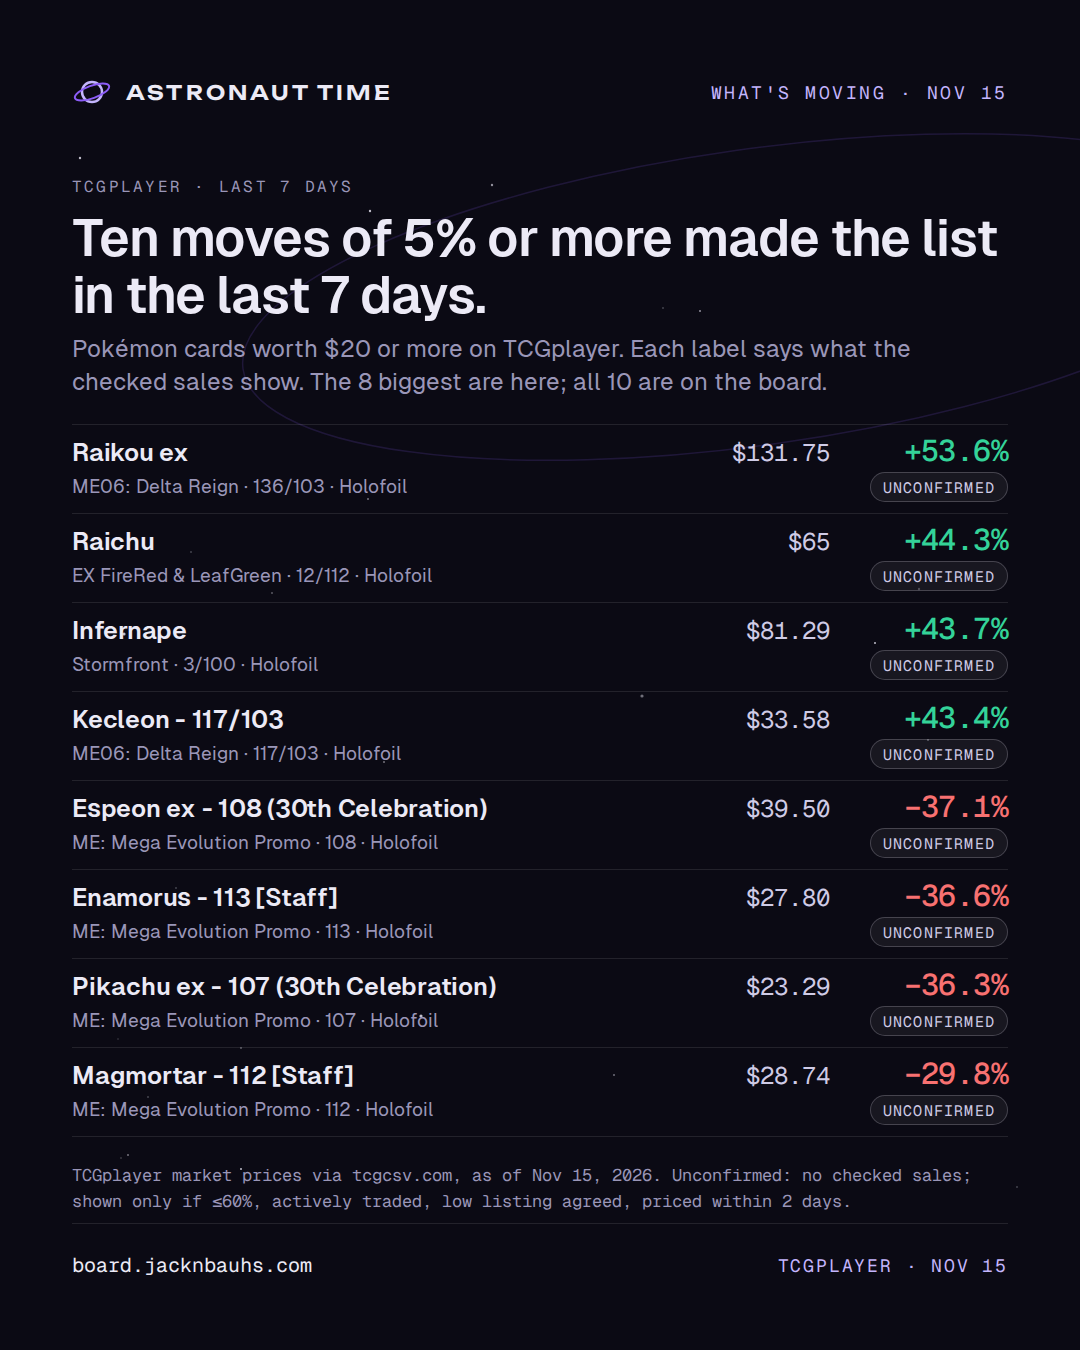
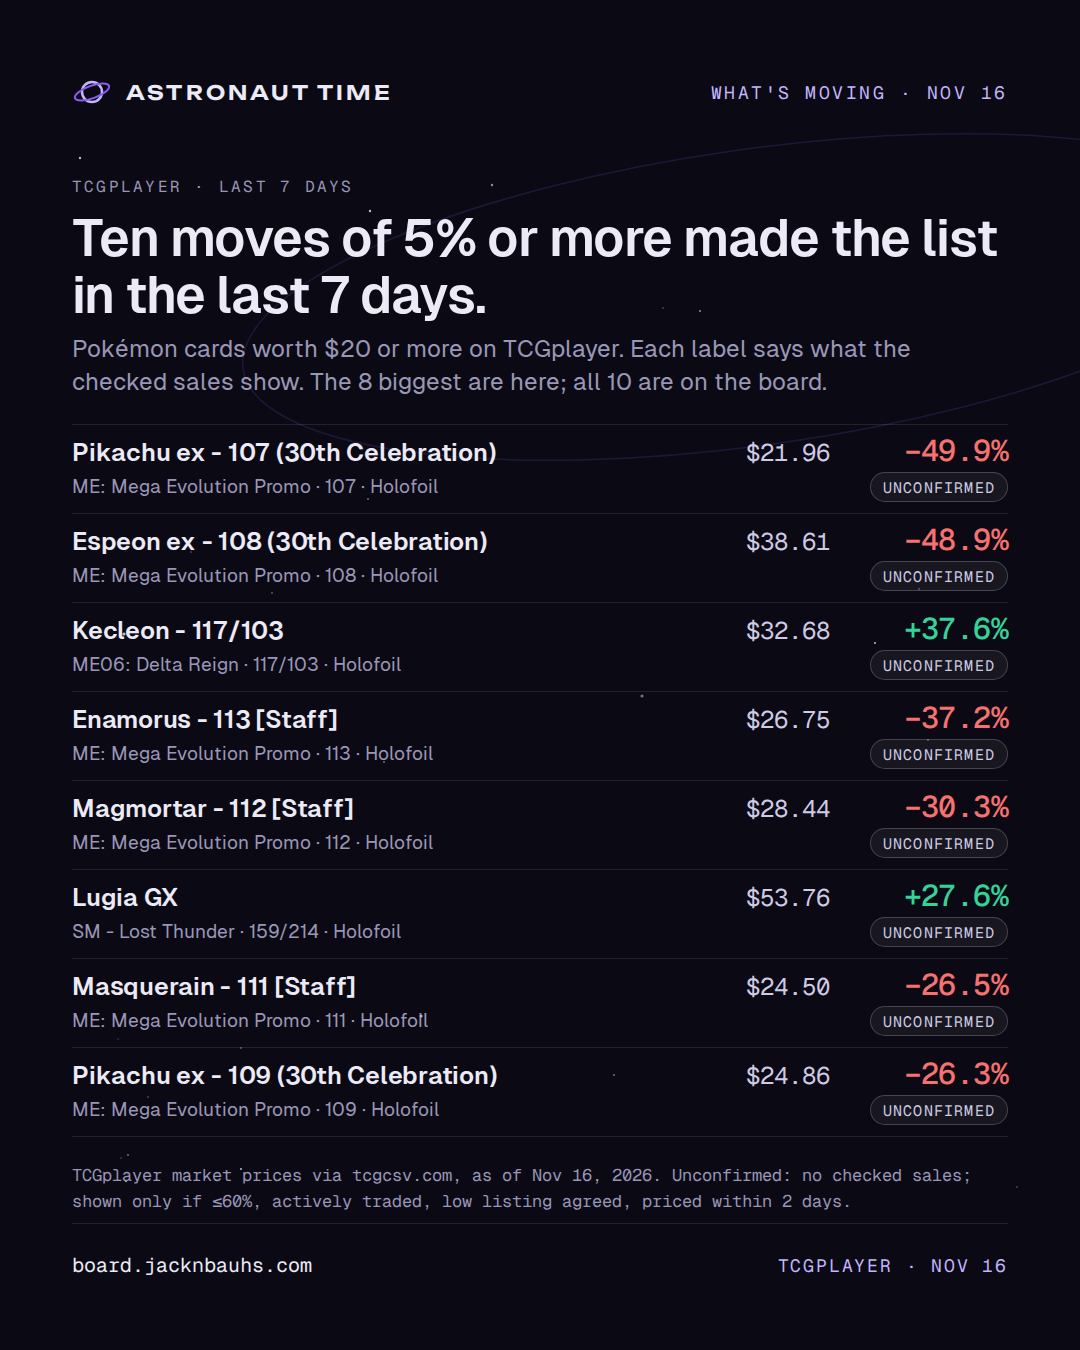
Share kit: render 2026-11-17

diff --git a/card.html b/card.html
@@ -10,14 +10,14 @@
 <meta property="og:url" content="https://board.jacknbauhs.com/card.html">
 <meta property="og:type" content="website">
 <meta property="og:site_name" content="Astronaut Time">
-<meta property="og:image" content="https://board.jacknbauhs.com/assets/og.png?v=2026-11-16">
+<meta property="og:image" content="https://board.jacknbauhs.com/assets/og.png?v=2026-11-17">
 <meta property="og:image:width" content="1200">
 <meta property="og:image:height" content="630">
 <meta property="og:image:alt" content="Mission Control by Astronaut Time: the card market, with the fake sales taken out.">
 <meta name="twitter:card" content="summary_large_image">
 <meta name="twitter:title" content="Card · Mission Control · Astronaut Time">
 <meta name="twitter:description" content="The card market, with the fake sales taken out.">
-<meta name="twitter:image" content="https://board.jacknbauhs.com/assets/og.png?v=2026-11-16">
+<meta name="twitter:image" content="https://board.jacknbauhs.com/assets/og.png?v=2026-11-17">
 <meta name="theme-color" content="#0B0A14">
 <link rel="icon" href="assets/favicon.svg" type="image/svg+xml">
 <link rel="preconnect" href="https://fonts.googleapis.com">

diff --git a/404.html b/404.html
@@ -10,14 +10,14 @@
 <meta property="og:url" content="https://board.jacknbauhs.com/">
 <meta property="og:type" content="website">
 <meta property="og:site_name" content="Astronaut Time">
-<meta property="og:image" content="https://board.jacknbauhs.com/assets/og.png?v=2026-11-16">
+<meta property="og:image" content="https://board.jacknbauhs.com/assets/og.png?v=2026-11-17">
 <meta property="og:image:width" content="1200">
 <meta property="og:image:height" content="630">
 <meta property="og:image:alt" content="Mission Control by Astronaut Time: the card market, with the fake sales taken out.">
 <meta name="twitter:card" content="summary_large_image">
 <meta name="twitter:title" content="Mission Control · Astronaut Time">
 <meta name="twitter:description" content="The card market, with the fake sales taken out.">
-<meta name="twitter:image" content="https://board.jacknbauhs.com/assets/og.png?v=2026-11-16">
+<meta name="twitter:image" content="https://board.jacknbauhs.com/assets/og.png?v=2026-11-17">
 <meta name="theme-color" content="#0B0A14">
 <link rel="icon" href="/assets/favicon.svg" type="image/svg+xml">
 <link rel="preconnect" href="https://fonts.googleapis.com">

diff --git a/index.html b/index.html
@@ -10,14 +10,14 @@
 <meta property="og:url" content="https://board.jacknbauhs.com/">
 <meta property="og:type" content="website">
 <meta property="og:site_name" content="Astronaut Time">
-<meta property="og:image" content="https://board.jacknbauhs.com/assets/og.png?v=2026-11-16">
+<meta property="og:image" content="https://board.jacknbauhs.com/assets/og.png?v=2026-11-17">
 <meta property="og:image:width" content="1200">
 <meta property="og:image:height" content="630">
 <meta property="og:image:alt" content="Mission Control by Astronaut Time: the card market, with the fake sales taken out.">
 <meta name="twitter:card" content="summary_large_image">
 <meta name="twitter:title" content="Mission Control · Astronaut Time">
 <meta name="twitter:description" content="The card market, with the fake sales taken out.">
-<meta name="twitter:image" content="https://board.jacknbauhs.com/assets/og.png?v=2026-11-16">
+<meta name="twitter:image" content="https://board.jacknbauhs.com/assets/og.png?v=2026-11-17">
 <meta name="theme-color" content="#0B0A14">
 <link rel="icon" href="assets/favicon.svg" type="image/svg+xml">
 <link rel="preconnect" href="https://fonts.googleapis.com">

diff --git a/share/out/captions.md b/share/out/captions.md
@@ -1,10 +1,10 @@
-# Captions, board data of 2026-11-16
+# Captions, board data of 2026-11-17
 
 One block per image. Caption first, alt text second. Plain facts, the source and the board link; nothing here is a buy.
 
 ## Before you post
 
-- ✅ Prices are from Nov 15, 2026.
+- ✅ Prices are from Nov 16, 2026.
 - ⚠ All 10 on the 7-day list are unconfirmed: no checked sale behind any. Keep "unconfirmed" in the post and call them price moves, not sales.
 - ⚠ All 10 on the since-yesterday list are unconfirmed: no checked sale behind any. Keep "unconfirmed" in the post and call them price moves, not sales.
 
@@ -19,6 +19,12 @@ Alt: The File on the Astronaut Time board: 48 mornings, no gaps. The prices are 
 4 of 4 moves on this File with no checked sale. Mission Control hasn't checked a sale behind any of the 4 moves on this File. With no checked sales, a move shows only if it's 60% or less over 7 days, TCGplayer's lowest listing moved the same way by at least a quarter as much, the price changed in the last 2 days, and the card trades. Pikachu ex - 109 (30th Celebration), Nov 13: $27.15, −55.3% in 7 days; no checked sale. Mewtwo EX - BW45, Nov 12: $30.16, −35.8% in 7 days; no checked sale. Giratina (Team Plasma), Nov 11: $451.70, +29.7% in 7 days; no checked sale. Snorlax, Nov 11: $286.31, +25.7% in 7 days; no checked sale. Every one is on the board with its label. Prices are TCGplayer's market price after the move. Source: The board repository's own commit history, Sep 28 to Nov 14, 2026 ("Board data" commits and each morning's meta.json); TCGplayer market prices via tcgcsv.com. board.jacknbauhs.com
 
 Alt: What we couldn't confirm: 4 of 4 moves on this File with no checked sale, all 4 listed one per line with the day, the card, the change and the TCGplayer market price after it.
+
+## flag-2026-11-16-feed-01-charizard-sir-151-psa-10-thin-spike.png
+
+Charizard SIR (151) · PSA 10 (Pokemon Card 151): the chart says +34%. Far above recent sales, thin volume. Label: thin spike. Up on a handful of sales, with no volume behind it. board.jacknbauhs.com
+
+Alt: Flagged move: Charizard SIR (151) · PSA 10, a claimed +34%, labeled thin spike. Far above recent sales, thin volume.
 
 ## call-001-2026-09-28.png
 
@@ -44,8 +50,8 @@ Three calls on the record. #001: The 30th Celebration Booster Bundle's premium c
 
 Alt: Three calls on the record. Number 001: The 30th Celebration Booster Bundle's premium collapses once it ships Oct 2. The ETB holds its premium better. Number 002: Base Set Charizard PSA 10 holds its price. The graded population is closed, so the reprint can't enter it. Number 003: Raw Base Set Charizard is down 10% or more by Oct 30. The reprint lands on the raw copies.
 
-## moving-2026-W46.png
+## moving-2026-W47.png
 
-What's moving on TCGplayer, as of Nov 15, 2026. Ten moves of 5% or more made the list in the last 7 days. Raikou ex (ME06: Delta Reign · 136/103 · Holofoil): $131.75, +53.6%, unconfirmed. Raichu (EX FireRed & LeafGreen · 12/112 · Holofoil): $65, +44.3%, unconfirmed. Infernape (Stormfront · 3/100 · Holofoil): $81.29, +43.7%, unconfirmed. Kecleon - 117/103 (ME06: Delta Reign · 117/103 · Holofoil): $33.58, +43.4%, unconfirmed. Espeon ex - 108 (30th Celebration) (ME: Mega Evolution Promo · 108 · Holofoil): $39.50, −37.1%, unconfirmed. Enamorus - 113 [Staff] (ME: Mega Evolution Promo · 113 · Holofoil): $27.80, −36.6%, unconfirmed. Pikachu ex - 107 (30th Celebration) (ME: Mega Evolution Promo · 107 · Holofoil): $23.29, −36.3%, unconfirmed. Magmortar - 112 [Staff] (ME: Mega Evolution Promo · 112 · Holofoil): $28.74, −29.8%, unconfirmed. Unconfirmed: no checked sales; shown only if ≤60%, actively traded, low listing agreed, priced within 2 days. Source: TCGplayer market prices via tcgcsv.com, as of Nov 15, 2026. board.jacknbauhs.com
+What's moving on TCGplayer, as of Nov 16, 2026. Ten moves of 5% or more made the list in the last 7 days. Pikachu ex - 107 (30th Celebration) (ME: Mega Evolution Promo · 107 · Holofoil): $21.96, −49.9%, unconfirmed. Espeon ex - 108 (30th Celebration) (ME: Mega Evolution Promo · 108 · Holofoil): $38.61, −48.9%, unconfirmed. Kecleon - 117/103 (ME06: Delta Reign · 117/103 · Holofoil): $32.68, +37.6%, unconfirmed. Enamorus - 113 [Staff] (ME: Mega Evolution Promo · 113 · Holofoil): $26.75, −37.2%, unconfirmed. Magmortar - 112 [Staff] (ME: Mega Evolution Promo · 112 · Holofoil): $28.44, −30.3%, unconfirmed. Lugia GX (SM - Lost Thunder · 159/214 · Holofoil): $53.76, +27.6%, unconfirmed. Masquerain - 111 [Staff] (ME: Mega Evolution Promo · 111 · Holofoil): $24.50, −26.5%, unconfirmed. Pikachu ex - 109 (30th Celebration) (ME: Mega Evolution Promo · 109 · Holofoil): $24.86, −26.3%, unconfirmed. Unconfirmed: no checked sales; shown only if ≤60%, actively traded, low listing agreed, priced within 2 days. Source: TCGplayer market prices via tcgcsv.com, as of Nov 16, 2026. board.jacknbauhs.com
 
 Alt: What's moving: the 8 biggest of the 10 TCGplayer moves on the list in the last 7 days, each with its market price, its change and the label for what checked sales show.
